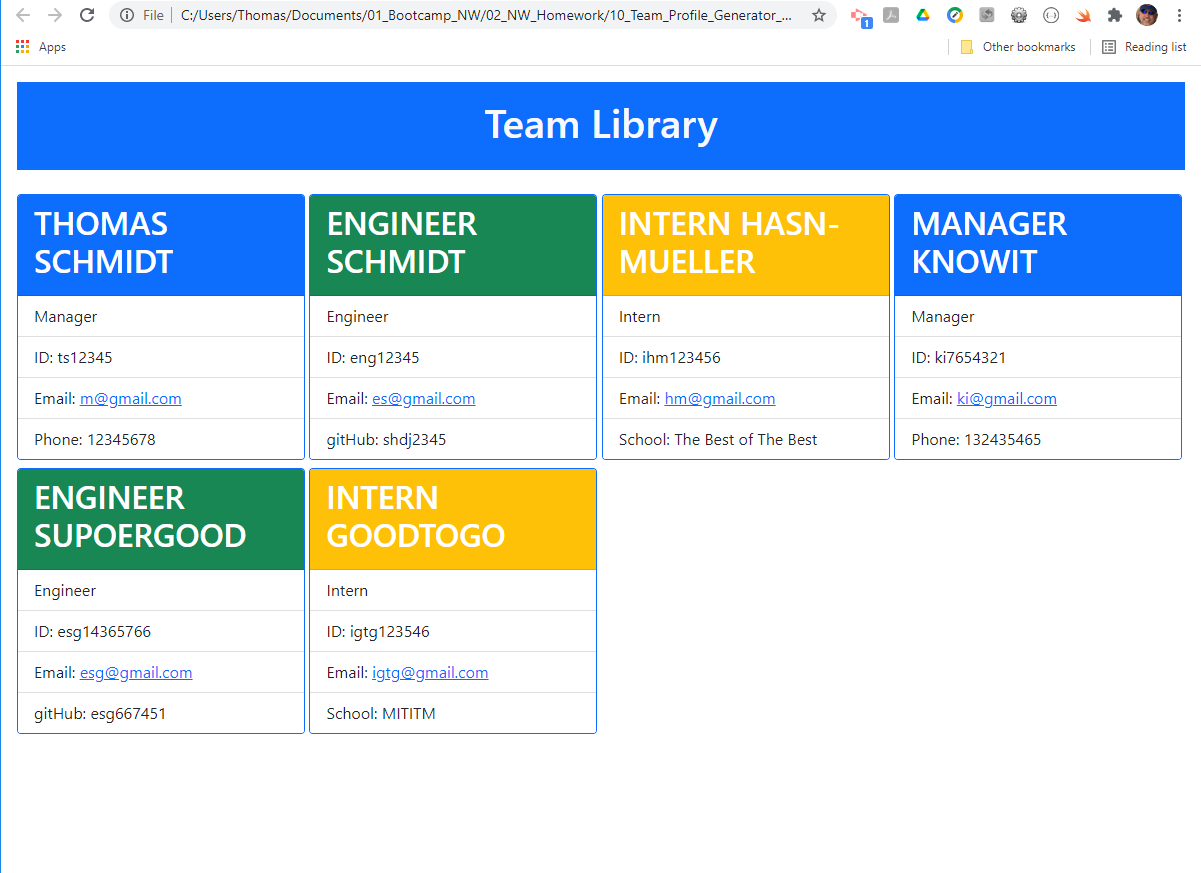
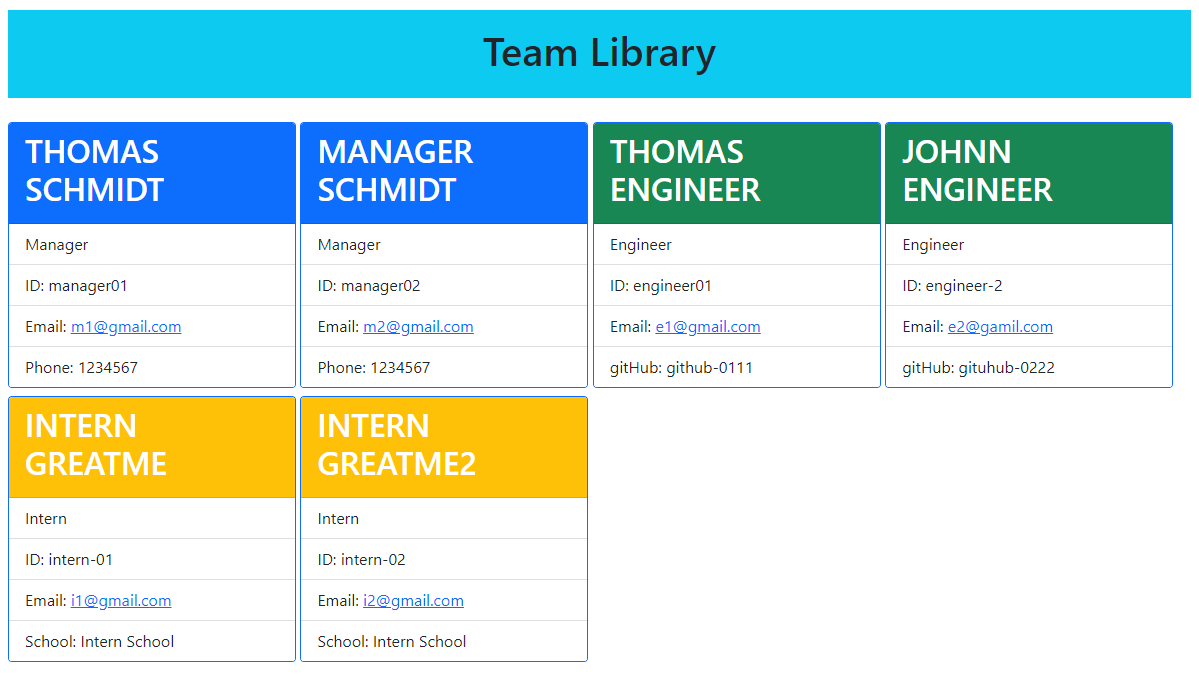
updated script file

diff --git a/dist/index.html b/dist/index.html
@@ -20,8 +20,8 @@
     <title>Team Profile Generator</title>
   </head>
   <body>
-    <header class="sticky-top bg-primary py-3 text-center m-3">
-      <h1 class='text-light'>Team Library</h1>
+    <header class="sticky-top bg-info py-3 text-center m-3">
+      <h1 class='text-dark'>Team Library</h1>
     </header>
     <main class="m-3">
   
@@ -32,9 +32,69 @@
       </div>
       <ul class="list-group list-group-flush">
         <li class="list-group-item"> Manager</li>
-        <li class="list-group-item"> ID: jsdlksjd</li>
-        <li class="list-group-item"> Email: <a href="mailto:m@gmail.com"> m@gmail.com</a></li>
-        <li class="list-group-item"> Phone: 1234689</li>
+        <li class="list-group-item"> ID: manager01</li>
+        <li class="list-group-item"> Email: <a href="mailto:m1@gmail.com"> m1@gmail.com</a></li>
+        <li class="list-group-item"> Phone: 1234567</li>
+      </ul>
+    </div>
+      
+    <div class="card border-primary mt-2" style="width: 18rem; display: inline-block">
+      <div class="card-header text-white bg-primary">
+        <h2 class="text-*-left; text-uppercase">Manager Schmidt</h2>
+      </div>
+      <ul class="list-group list-group-flush">
+        <li class="list-group-item"> Manager</li>
+        <li class="list-group-item"> ID: manager02</li>
+        <li class="list-group-item"> Email: <a href="mailto:m2@gmail.com"> m2@gmail.com</a></li>
+        <li class="list-group-item"> Phone: 1234567</li>
+      </ul>
+    </div>
+      
+    <div class="card border-primary mt-2" style="width: 18rem; display: inline-block">
+      <div class="card-header text-white bg-success">
+        <h2 class="text-*-left; text-uppercase">Thomas Engineer</h2>
+      </div>
+      <ul class="list-group list-group-flush">
+        <li class="list-group-item">Engineer</li>
+        <li class="list-group-item"> ID: engineer01</li>
+        <li class="list-group-item"> Email: <a href="mailto:e1@gmail.com"> e1@gmail.com</a></li>
+        <li class="list-group-item"> gitHub: github-0111</li>
+      </ul>
+    </div>
+      
+    <div class="card border-primary mt-2" style="width: 18rem; display: inline-block">
+      <div class="card-header text-white bg-success">
+        <h2 class="text-*-left; text-uppercase">Johnn Engineer</h2>
+      </div>
+      <ul class="list-group list-group-flush">
+        <li class="list-group-item">Engineer</li>
+        <li class="list-group-item"> ID: engineer-2</li>
+        <li class="list-group-item"> Email: <a href="mailto:e2@gamil.com"> e2@gamil.com</a></li>
+        <li class="list-group-item"> gitHub: gituhub-0222</li>
+      </ul>
+    </div>
+    
+    <div class="card border-primary mt-2" style="width: 18rem; display: inline-block">
+      <div class="card-header text-white bg-warning">
+        <h2 class="text-*-left; text-uppercase">Intern GreatMe</h2>
+      </div>
+      <ul class="list-group list-group-flush">
+        <li class="list-group-item">Intern</li>
+        <li class="list-group-item"> ID: intern-01</li>
+        <li class="list-group-item"> Email: <a href="mailto:i1@gmail.com"> i1@gmail.com</a></li>
+        <li class="list-group-item"> School: Intern School</li>
+      </ul>
+    </div>
+    
+    <div class="card border-primary mt-2" style="width: 18rem; display: inline-block">
+      <div class="card-header text-white bg-warning">
+        <h2 class="text-*-left; text-uppercase">Intern GreatMe2</h2>
+      </div>
+      <ul class="list-group list-group-flush">
+        <li class="list-group-item">Intern</li>
+        <li class="list-group-item"> ID: intern-02</li>
+        <li class="list-group-item"> Email: <a href="mailto:i2@gmail.com"> i2@gmail.com</a></li>
+        <li class="list-group-item"> School: Intern School</li>
       </ul>
     </div>
     

diff --git a/src/script.js b/src/script.js
@@ -44,8 +44,8 @@ const genHtml = team => {
     <title>Team Profile Generator</title>
   </head>
   <body>
-    <header class="sticky-top bg-primary py-3 text-center m-3">
-      <h1 class='text-light'>Team Library</h1>
+    <header class="sticky-top bg-info py-3 text-center m-3">
+      <h1 class='text-dark'>Team Library</h1>
     </header>
     <main class="m-3">
   
